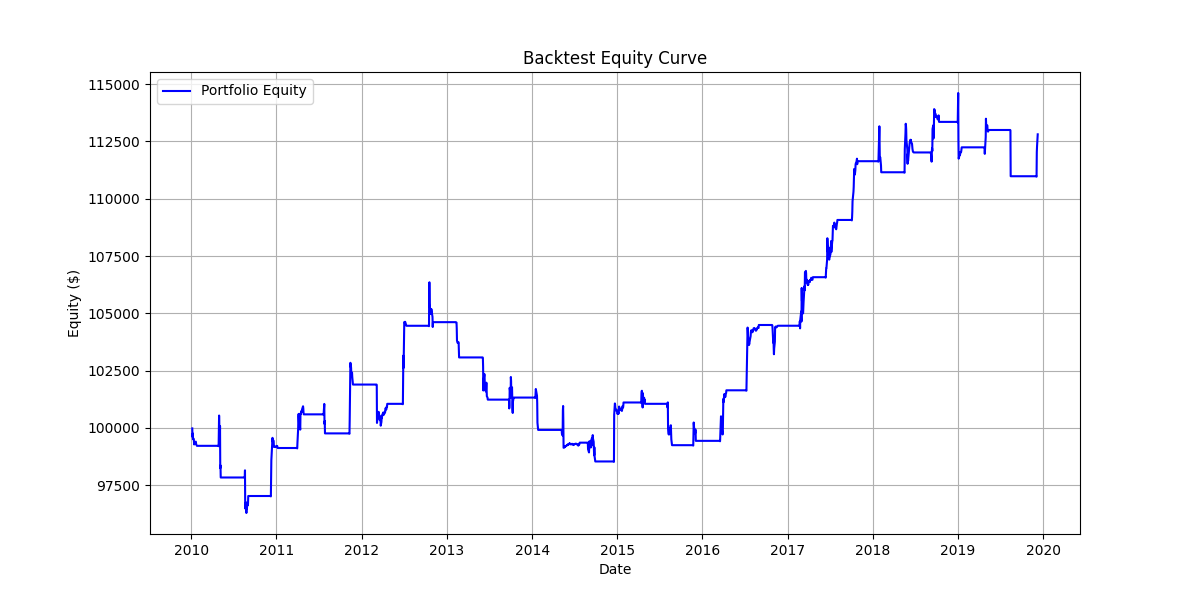
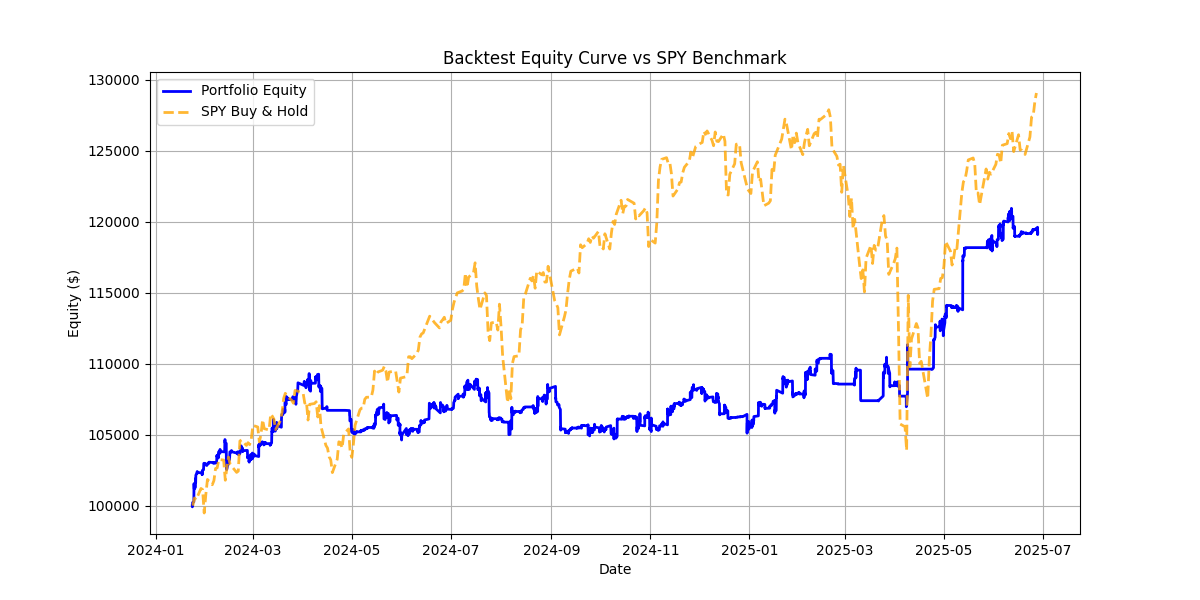
ll

diff --git a/scripts/backtest.py b/scripts/backtest.py
@@ -21,28 +21,33 @@ def run_backtest(model_path, data_file, tickers=None, period_start=None, period_
     
     # 1. Load Data
     print("Loading data...")
-    df = pd.read_csv(data_file, header=[0, 1], index_col=0, parse_dates=True)
     
-    # Filter Tickers?
-    if tickers:
-        print(f"Filtering for tickers: {tickers}")
-        # Reconstruct MultiIndex for specific tickers
-        # Assuming level 1 is Ticker
-        # This is a bit complex with MultiIndex, simpler to just pass all and let env handle it
-        # but for visualization usually we want specific ones.
-        # For now, let's load ALL, and env will process.
-        pass
+    # Try to detect CSV format
+    # Read first few rows to check format
+    df_check = pd.read_csv(data_file, nrows=5)
+    
+    if 'Ticker' in df_check.columns:
+        # Long format: has Ticker column
+        print("  Detected: Long format (Ticker column)")
+        df = pd.read_csv(data_file, index_col=0, parse_dates=True)
         
-    # Filter Period?
-    if period_start and period_end:
-        print(f"Filtering period: {period_start} to {period_end}")
-        df = df.loc[period_start:period_end]
-    
-    # Convert to Dict for Env
-    data_dict = {}
-    tickers_found = df.columns.get_level_values(1).unique()
-    for ticker in tickers_found:
-        data_dict[ticker] = df.xs(ticker, axis=1, level=1)
+        # Convert to Dict for Env
+        data_dict = {}
+        for ticker in df['Ticker'].unique():
+            ticker_df = df[df['Ticker'] == ticker].copy()
+            ticker_df = ticker_df.drop(columns=['Ticker'])
+            ticker_df = ticker_df.sort_index()
+            data_dict[ticker] = ticker_df
+    else:
+        # Wide format: MultiIndex columns
+        print("  Detected: Wide format (MultiIndex)")
+        df = pd.read_csv(data_file, header=[0, 1], index_col=0, parse_dates=True)
+        
+        # Convert to Dict for Env
+        data_dict = {}
+        tickers_found = df.columns.get_level_values(1).unique()
+        for ticker in tickers_found:
+            data_dict[ticker] = df.xs(ticker, axis=1, level=1)
         
     # 2. Setup Env
     print("Creating Environment...")
@@ -105,13 +110,33 @@ def run_backtest(model_path, data_file, tickers=None, period_start=None, period_
     df_res.set_index('date', inplace=True)
     
     # 6. Visualization
-    plot_results(df_res, env.tickers)
+    plot_results(df_res, env.tickers, data_dict=data_dict, initial_balance=env.initial_balance)
 
-def plot_results(df, tickers):
-    # Plot Equity Curve
+def plot_results(df, tickers, data_dict=None, initial_balance=10000):
+    # Plot Equity Curve with SPY Benchmark
     plt.figure(figsize=(12, 6))
-    plt.plot(df.index, df['equity'], label='Portfolio Equity', color='blue')
-    plt.title('Backtest Equity Curve')
+    plt.plot(df.index, df['equity'], label='Portfolio Equity', color='blue', linewidth=2)
+    
+    # Load SPY benchmark from separate file
+    try:
+        spy_file = os.path.join(os.path.dirname(__file__), '../data/spy_benchmark.csv')
+        spy_raw = pd.read_csv(spy_file, header=[0, 1], index_col=0, parse_dates=True)
+        # Extract Close prices
+        spy_close = spy_raw['Close']['SPY'] if 'Close' in spy_raw.columns.get_level_values(0) else None
+        
+        if spy_close is not None:
+            # Filter to backtest date range
+            spy_data = spy_close.loc[df.index[0]:df.index[-1]]
+            if len(spy_data) > 0:
+                spy_start = spy_data.iloc[0]
+                spy_normalized = (spy_data / spy_start) * initial_balance
+                plt.plot(spy_normalized.index, spy_normalized.values, label='SPY Buy & Hold', 
+                         color='orange', linewidth=2, linestyle='--', alpha=0.8)
+                print(f"SPY benchmark: ${spy_start:.2f} -> ${spy_data.iloc[-1]:.2f} ({((spy_data.iloc[-1]/spy_start)-1)*100:.1f}%)")
+    except Exception as e:
+        print(f"Could not load SPY benchmark: {e}")
+    
+    plt.title('Backtest Equity Curve vs SPY Benchmark')
     plt.xlabel('Date')
     plt.ylabel('Equity ($)')
     plt.legend()

diff --git a/scripts/download.py b/scripts/download.py
@@ -1,35 +1,43 @@
 #!/usr/bin/env python3
 """
-Download Historical Data Script (Fixed)
-=======================================
+Download Historical Data Script (Full S&P 500)
+==============================================
 
-Télécharge les données historiques via yfinance avec une période ajustée
-pour respecter la limite stricte de 730 jours de Yahoo Finance pour les données horaires.
+Downloads all S&P 500 tickers from Wikipedia and fetches historical data.
 
 Usage:
-    python scripts/download_data.py
+    python scripts/download.py
+    python scripts/download.py --daily  # For daily data (more history)
 """
 
 import os
+import argparse
 import yfinance as yf
 import pandas as pd
 from datetime import datetime, timedelta
 
-# Configuration du projet
-TICKERS = [
-    # GROWTH
-    "NVDA", "MSFT", "AAPL", "GOOGL", "AMZN",
-    # DEFENSIVE
-    "SPY", "QQQ", "VOO", "VTI",
-    # ENERGY
-    "XOM", "CVX", "COP", "XLE",
-    # FINANCE
-    "JPM", "BAC", "WFC", "GS"
-]
+def get_sp500_tickers():
+    """Fetch S&P 500 tickers from Wikipedia"""
+    try:
+        url = "https://en.wikipedia.org/wiki/List_of_S%26P_500_companies"
+        tables = pd.read_html(url)
+        sp500_table = tables[0]
+        tickers = sp500_table['Symbol'].tolist()
+        # Clean tickers (replace . with - for Yahoo Finance)
+        tickers = [t.replace('.', '-') for t in tickers]
+        return tickers
+    except Exception as e:
+        print(f"Could not fetch S&P 500 list: {e}")
+        # Fallback to core tickers
+        return ["NVDA", "MSFT", "AAPL", "GOOGL", "AMZN", "SPY", "QQQ", 
+                "JPM", "BAC", "XOM", "CVX", "JNJ", "PG", "UNH"]
 
-# FIX: Yahoo Finance est très strict sur la limite de 730 jours pour les données 1h.
-# On prend 720 jours pour être sûr (marge de sécurité).
-DAYS_BACK = 720
+# Get all S&P 500 tickers
+TICKERS = get_sp500_tickers()
+print(f"Loaded {len(TICKERS)} S&P 500 tickers")
+
+# Configuration
+DAYS_BACK = 720  # ~2 years for hourly (Yahoo limit)
 START_DATE = (datetime.now() - timedelta(days=DAYS_BACK)).strftime('%Y-%m-%d')
 END_DATE = datetime.now().strftime('%Y-%m-%d')
 OUTPUT_FILE = "data/sp500.csv"

diff --git a/src/ploutos/env/rewards.py b/src/ploutos/env/rewards.py
@@ -94,10 +94,10 @@ class AdvancedRewardCalculator:
             if downside_std < 1e-6: downside_std = 1.0
             sortino_bonus = (step_return / downside_std) * 0.5
 
-        # 4. Trading Activity Bonus (Encourager à prendre des profits)
+        # 4. Trading Activity Bonus (Reduced to prevent overtrading)
         trade_bonus = 0.0
         if is_winning_trade:
-            trade_bonus = 1.0  # Gros bonus ponctuel pour valider un gain
+            trade_bonus = 0.1  # Small bonus for winning trades (was 1.0)
             
         # 5. Overtrading Penalty
         trade_penalty = 0.0
